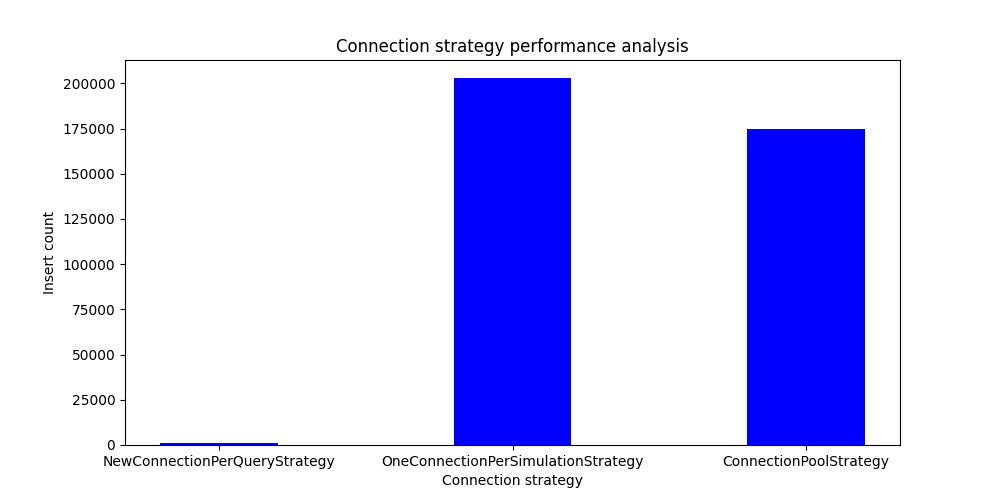
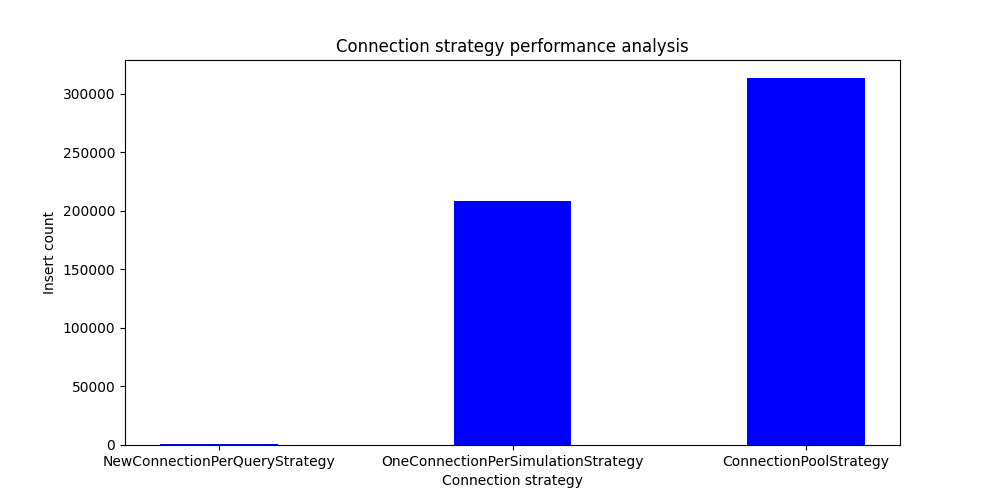
fixed ConnectionPoolStrategy

diff --git a/simulation/cmd/strategies.py b/simulation/cmd/strategies.py
@@ -1,5 +1,5 @@
+import threading
 import time
-from concurrent.futures import ThreadPoolExecutor
 
 from cmd import constants
 from db import db
@@ -49,14 +49,29 @@ class ConnectionPoolStrategy(Strategy):
         super().__init__(credentials, duration_min)
         self.connection_pool = db.get_connection_pool(credentials)
         self.thread_count = thread_count
+        self.stop_threads = threading.Event()
 
     def apply(self):
-        with ThreadPoolExecutor(max_workers=self.thread_count) as executor:
-            executor.submit(self.__run_query())
+        threads = self.__create_threads()
+        simulation_time = self.duration_ns / constants.NANO_TO_SEC
+        time.sleep(simulation_time)
+        self.stop_threads.set()
+        self.__join_threads(threads)
+
+    def __create_threads(self):
+        threads = list()
+        for _ in range(self.thread_count):
+            th = threading.Thread(target=self.__run_query)
+            threads.append(th)
+            th.start()
+        return threads
 
     def __run_query(self):
-        end_time = time.time_ns() + self.duration_ns
-        while time.time_ns() < end_time:
+        while not self.stop_threads.is_set():
             connection = self.connection_pool.getconn()
             db.add_entry(connection)
             self.connection_pool.putconn(connection)
+
+    def __join_threads(self, threads):
+        for th in threads:
+            th.join()

diff --git a/simulation/cmd/commands.py b/simulation/cmd/commands.py
@@ -1,3 +1,6 @@
+import datetime
+
+from datetime import datetime
 from typing import List
 
 from cmd import plot
@@ -40,13 +43,14 @@ class StartCommand(Command):
     def execute(self):
         results = {}
         for strategy in self.strategies:
-            print(f"Applying strategy: {strategy.__class__.__name__}:")
+            strategy_name = strategy.__class__.__name__
+            print(f"[{datetime.now()}] Applying strategy: {strategy_name}:")
             strategy.apply()
             connection = db.get_connection(self.credentials)
             insert_count = db.get_number_of_inserts(connection)
-            results[strategy.__class__.__name__] = insert_count
-            print(f"Strategy: {strategy.__class__.__name__} applied. Total insert count is:{insert_count}")
-            print(f"Running cleanup between tests:")
+            results[strategy_name] = insert_count
+            print(f"[{datetime.now()}] Strategy: {strategy_name} applied. Total insert count is:{insert_count}")
+            print(f"[{datetime.now()}] Running cleanup between tests:")
             db.cleanup_between_tests(connection)
             connection.close()
         plot.figure(results)

diff --git a/simulation/cmd/constants.py b/simulation/cmd/constants.py
@@ -1,1 +1,2 @@
 MIN_TO_NANO = 60_000_000_000
+NANO_TO_SEC = 1_000_000_000

diff --git a/README.md b/README.md
@@ -55,6 +55,6 @@ The script will run an insert sql query for a specified time with the following 
 
 # Results
 
-| One Minute with two theads 	| One minute with four threads 	|
-|---	|---	|
-| ![Test one minute with two threads](results/OneMinuteTwoThreads.png) 	| ![Test one minute with four threads](results/OneMinuteFourThreads.png) 	|
+| One Minute with two theads 	| Two minutes with four threads 	                                            |
+|---	|----------------------------------------------------------------------------|
+| ![Test one minute with two threads](results/OneMinuteTwoThreads.png) 	| ![Test two minutes with four threads](results/TwoMinutesFourThreads.png) 	 |
